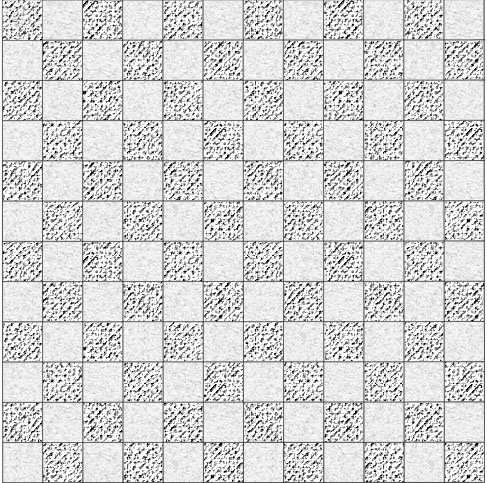
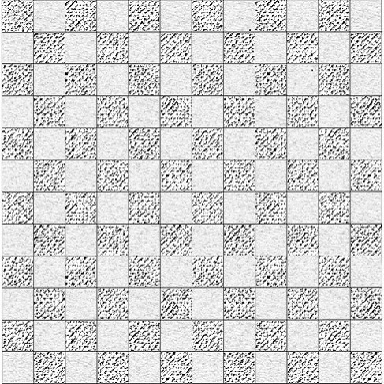
Added BoardView, modified board grid image

Changed region(s): [[0.0, 0.0, 1.0, 1.0]]

diff --git a/Lycomedes/player/view/BoardView.java b/Lycomedes/player/view/BoardView.java
@@ -1,0 +1,20 @@
+package view;
+
+import javax.swing.JPanel;
+import model.Board;
+import javax.swing.JLabel;
+import javax.swing.ImageIcon;
+
+public class BoardView extends JPanel {
+	private Board board;
+	
+	public BoardView(Board board) {
+		this.board = board;
+		setLayout(null);
+		
+		JLabel lblBoard = new JLabel("");
+		lblBoard.setIcon(new ImageIcon(BoardView.class.getResource("/imgs/12x12gridedit.jpg")));
+		lblBoard.setBounds(0, 0, 384, 384);
+		add(lblBoard);
+	}
+}

diff --git a/Lycomedes/player/model/Board.java b/Lycomedes/player/model/Board.java
@@ -6,7 +6,7 @@ public class Board {
 	private Piece[] placedPieces;
 	
 	public Board(Tile[][] tiles) {
-		
+		this.boardArray = tiles;
 	}
 	
 	public void place(int row, int col, Piece piece) {
